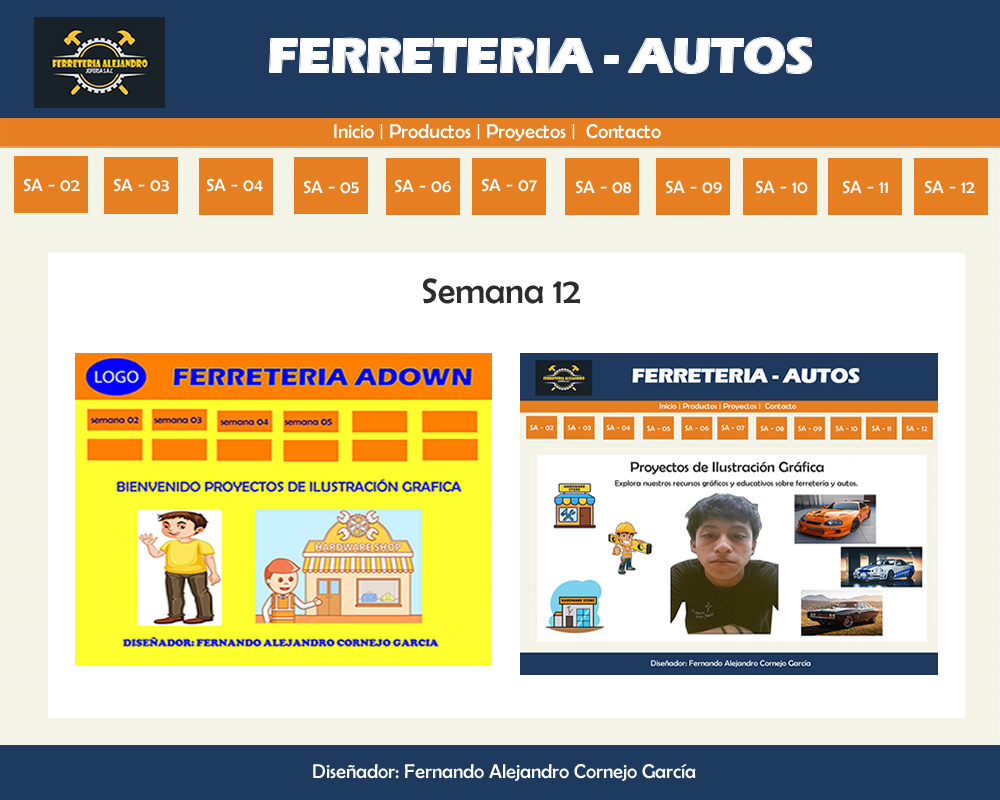
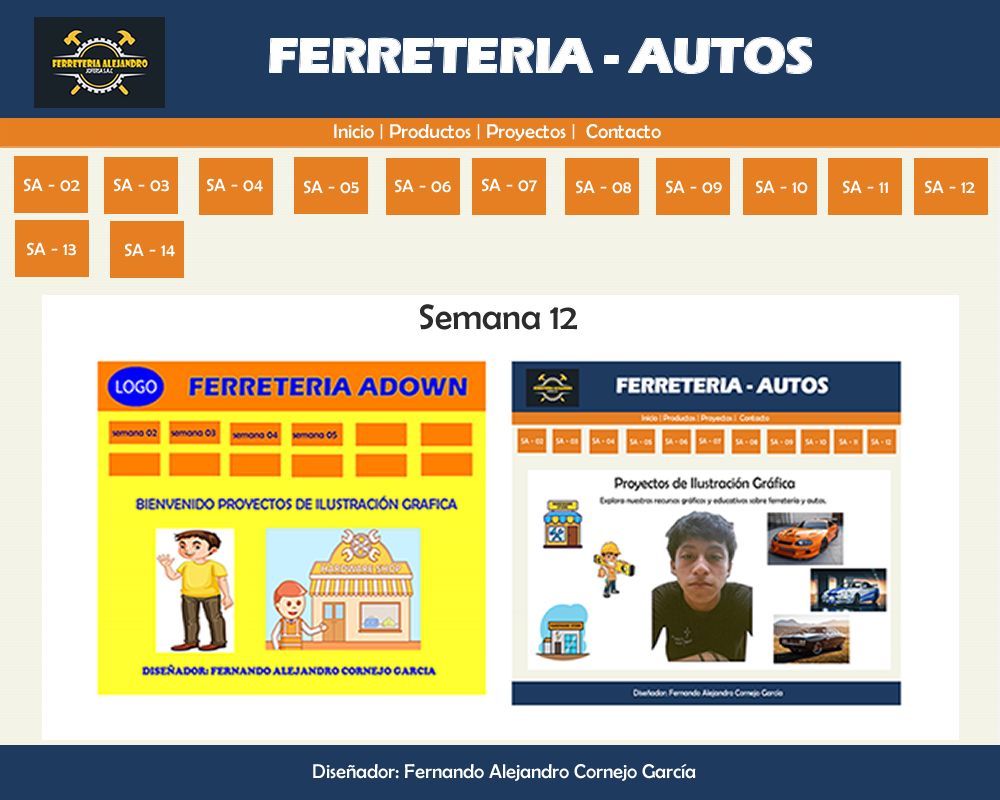
Add files via upload

Changed region(s): [[0.0, 0.25, 0.961, 0.9375], [0.93, 0.75, 0.961, 0.7812]]

diff --git a/s14.html b/s14.html
@@ -3,13 +3,13 @@
 <!-- saved from url=(0014)about:internet -->
 <html xmlns="http://www.w3.org/1999/xhtml">
 <head>
-<title>s12</title>
+<title>s14</title>
 <meta http-equiv="Content-Type" content="text/html; charset=utf-8" />
-<!--Fireworks CS6 Dreamweaver CS6 target.  Created Tue Jul 22 08:02:10 GMT-0500 2025-->
+<!--Fireworks CS6 Dreamweaver CS6 target.  Created Tue Jul 22 07:59:19 GMT-0500 2025-->
 </head>
-<center>
 <body bgcolor="#ffffff">
-<img name="s12" src="s12.png" width="1000" height="800" id="s12" usemap="#m_s12" alt="" /><map name="m_s12" id="m_s12">
+<center>
+<img name="s14" src="s14.png" width="1000" height="800" id="s14" usemap="#m_s14" alt="" /><map name="m_s14" id="m_s14">
 <area shape="rect" coords="111,222,183,278" href="s14.html" alt="" />
 <area shape="rect" coords="15,221,87,277" href="s13.html" alt="" />
 <area shape="rect" coords="35,16,165,110" href="index.html" alt="" />

diff --git a/s13.html b/s13.html
@@ -3,13 +3,13 @@
 <!-- saved from url=(0014)about:internet -->
 <html xmlns="http://www.w3.org/1999/xhtml">
 <head>
-<title>s12</title>
+<title>s13</title>
 <meta http-equiv="Content-Type" content="text/html; charset=utf-8" />
-<!--Fireworks CS6 Dreamweaver CS6 target.  Created Tue Jul 22 08:02:10 GMT-0500 2025-->
+<!--Fireworks CS6 Dreamweaver CS6 target.  Created Tue Jul 22 07:56:16 GMT-0500 2025-->
 </head>
 <center>
 <body bgcolor="#ffffff">
-<img name="s12" src="s12.png" width="1000" height="800" id="s12" usemap="#m_s12" alt="" /><map name="m_s12" id="m_s12">
+<img name="s13" src="s13.png" width="1000" height="800" id="s13" usemap="#m_s13" alt="" /><map name="m_s13" id="m_s13">
 <area shape="rect" coords="111,222,183,278" href="s14.html" alt="" />
 <area shape="rect" coords="15,221,87,277" href="s13.html" alt="" />
 <area shape="rect" coords="35,16,165,110" href="index.html" alt="" />
